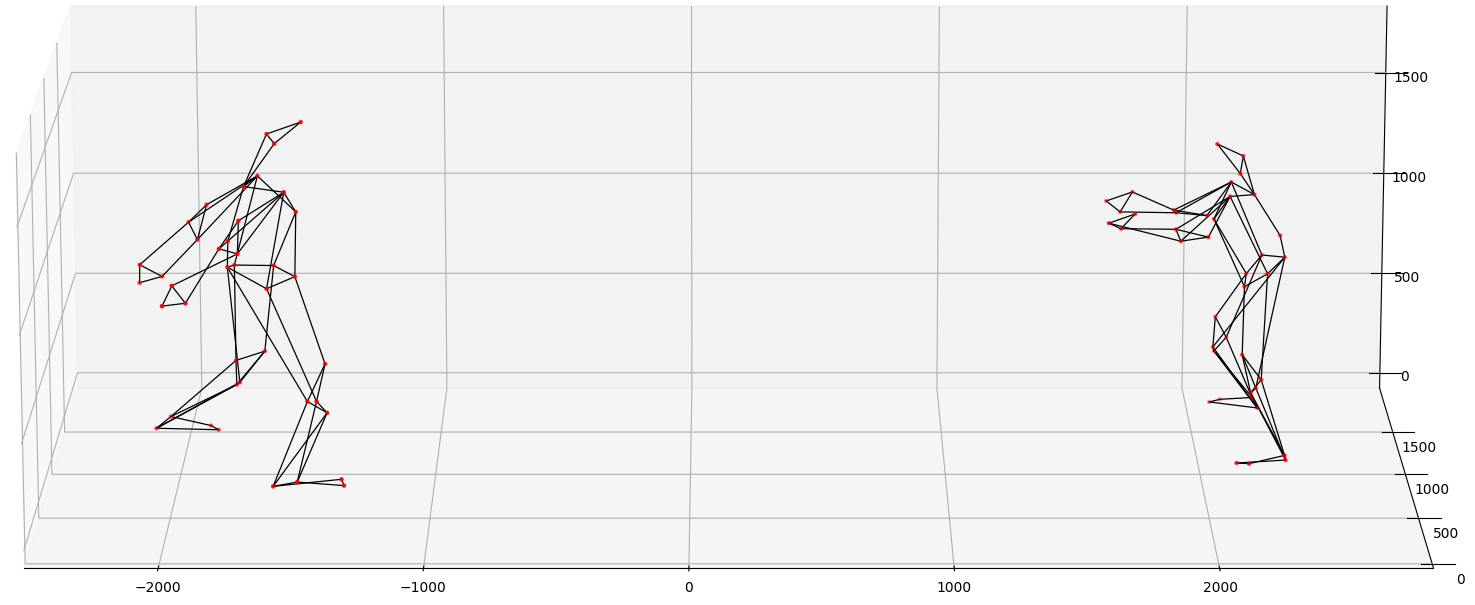
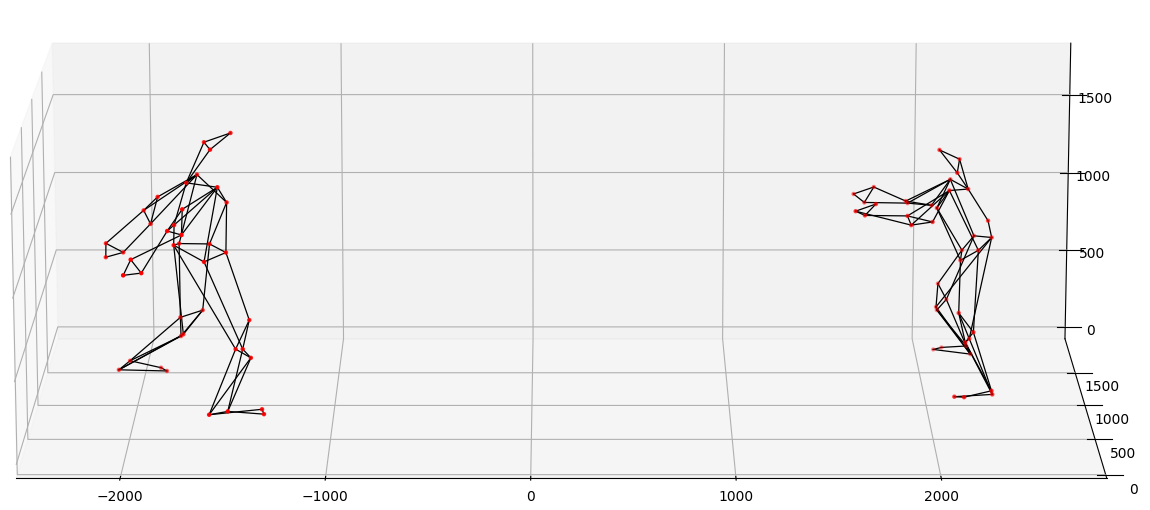
motion capture introduction

diff --git a/docs/thesis/chapters/introduction.tex b/docs/thesis/chapters/introduction.tex
@@ -1,20 +1,38 @@
 \section{Introduction}
-In the digital era we are immersed in, the fusion of technology and art has reached astonishing levels, 
-giving rise to new forms of expression and creation.
-One of the most revolutionary developments in this realm has been the advent of motion capture technology, 
-which has opened doors to a world of possibilities in animation, cinema, video games, and many other artistic disciplines. 
-The ability to capture human movements and translate them into digital data 
-has made possible what once seemed confined to the realm of imagination.
+\# \textbf{TODO introduzione da rifare, va ricentrata sullo scopo della tesi. Non so se ci vuole un'introduzione anche sul motion capture}
+\\The human body is a marvel of complexity, 
+seamlessly orchestrating an intricate symphony of movements 
+that enable us to interact with the world around us. 
+From the graceful ballet of a dancer to the powerful strides of an athlete, 
+every motion we make is the result of a finely tuned interplay of physiological processes 
+and biomechanical principles. 
+Understanding the physical origins of movement is not only a fundamental pursuit 
+in the fields of biology, physiology, and kinesiology, 
+but it also holds the key to unlocking insights into human health, performance, and 
+the very essence of our existence.
 
-\subsection{The Technological Rise of Motion Capture}
+\subsection{Origins and technological rise of Motion Capture}
+The roots of motion capture can be traced back to early attempts in the late 19th and early 20th centuries
+to capture human movement for scientific analysis. 
+These early endeavors laid the foundation for subsequent developments in the field. 
+However, it wasn't until the latter half of the 20th century that motion capture 
+began to gain traction as a viable technology.
+
 From marker-based recording to detection through advanced sensors and high-definition cameras,
 \begin{figure}[H]
     \centering
     \includegraphics[width=0.9\textwidth]{graphics/bodyMarkersExampleImage.png}
-    \includegraphics[width=0.9\textwidth]{graphics/bodyMarkersExampleMoCap.png} % Replace with the path to your second image
-    \caption{Video screenshot and MoCap scene}
+    \includegraphics[width=0.9\textwidth]{graphics/bodyMarkersExampleMoCap.png}
+    \caption{Video screenshot and MoCap scene with infrared cameras and markers}
     \label{fig:common}
 \end{figure}
+
+\begin{figure}[H]
+    \centering
+    \includegraphics[width=0.9\textwidth]{graphics/MoCapMarkerlessQualisys.png}
+    \caption{Markerless MoCap scene}
+\end{figure}
+
 we see how technological innovations have made the motion capture process increasingly precise and detailed.
 
 \subsection{Research context}
